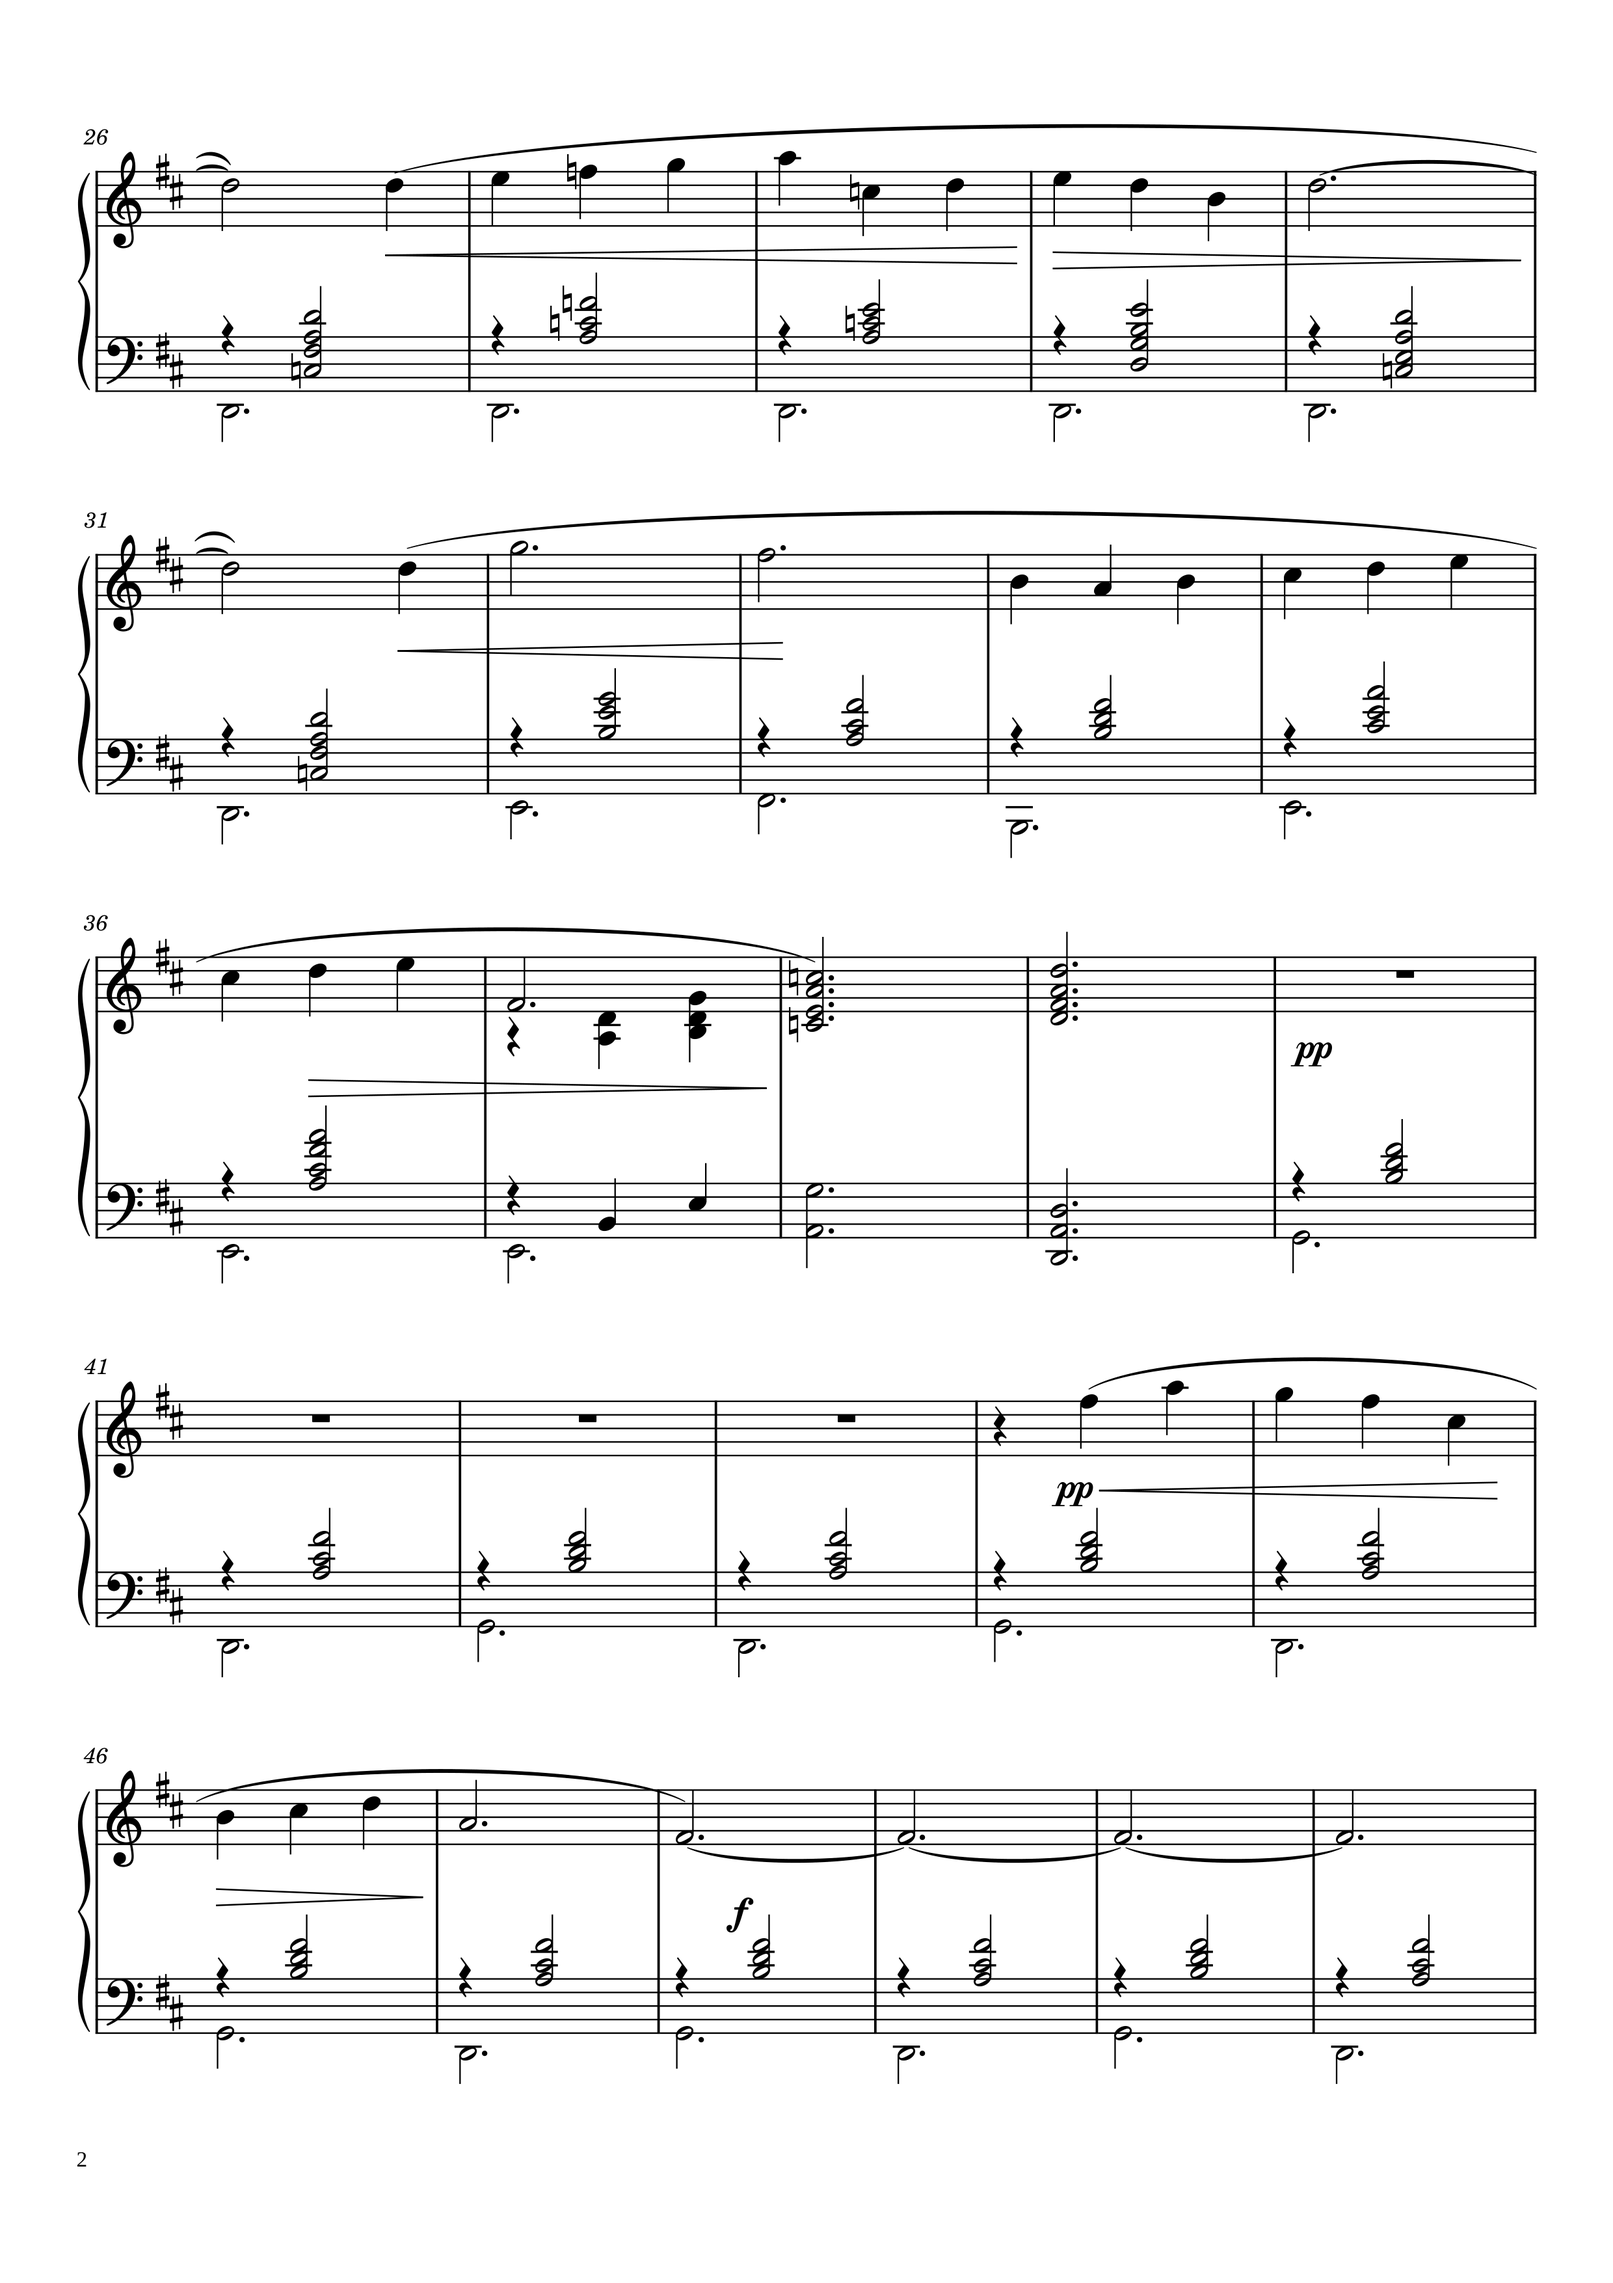
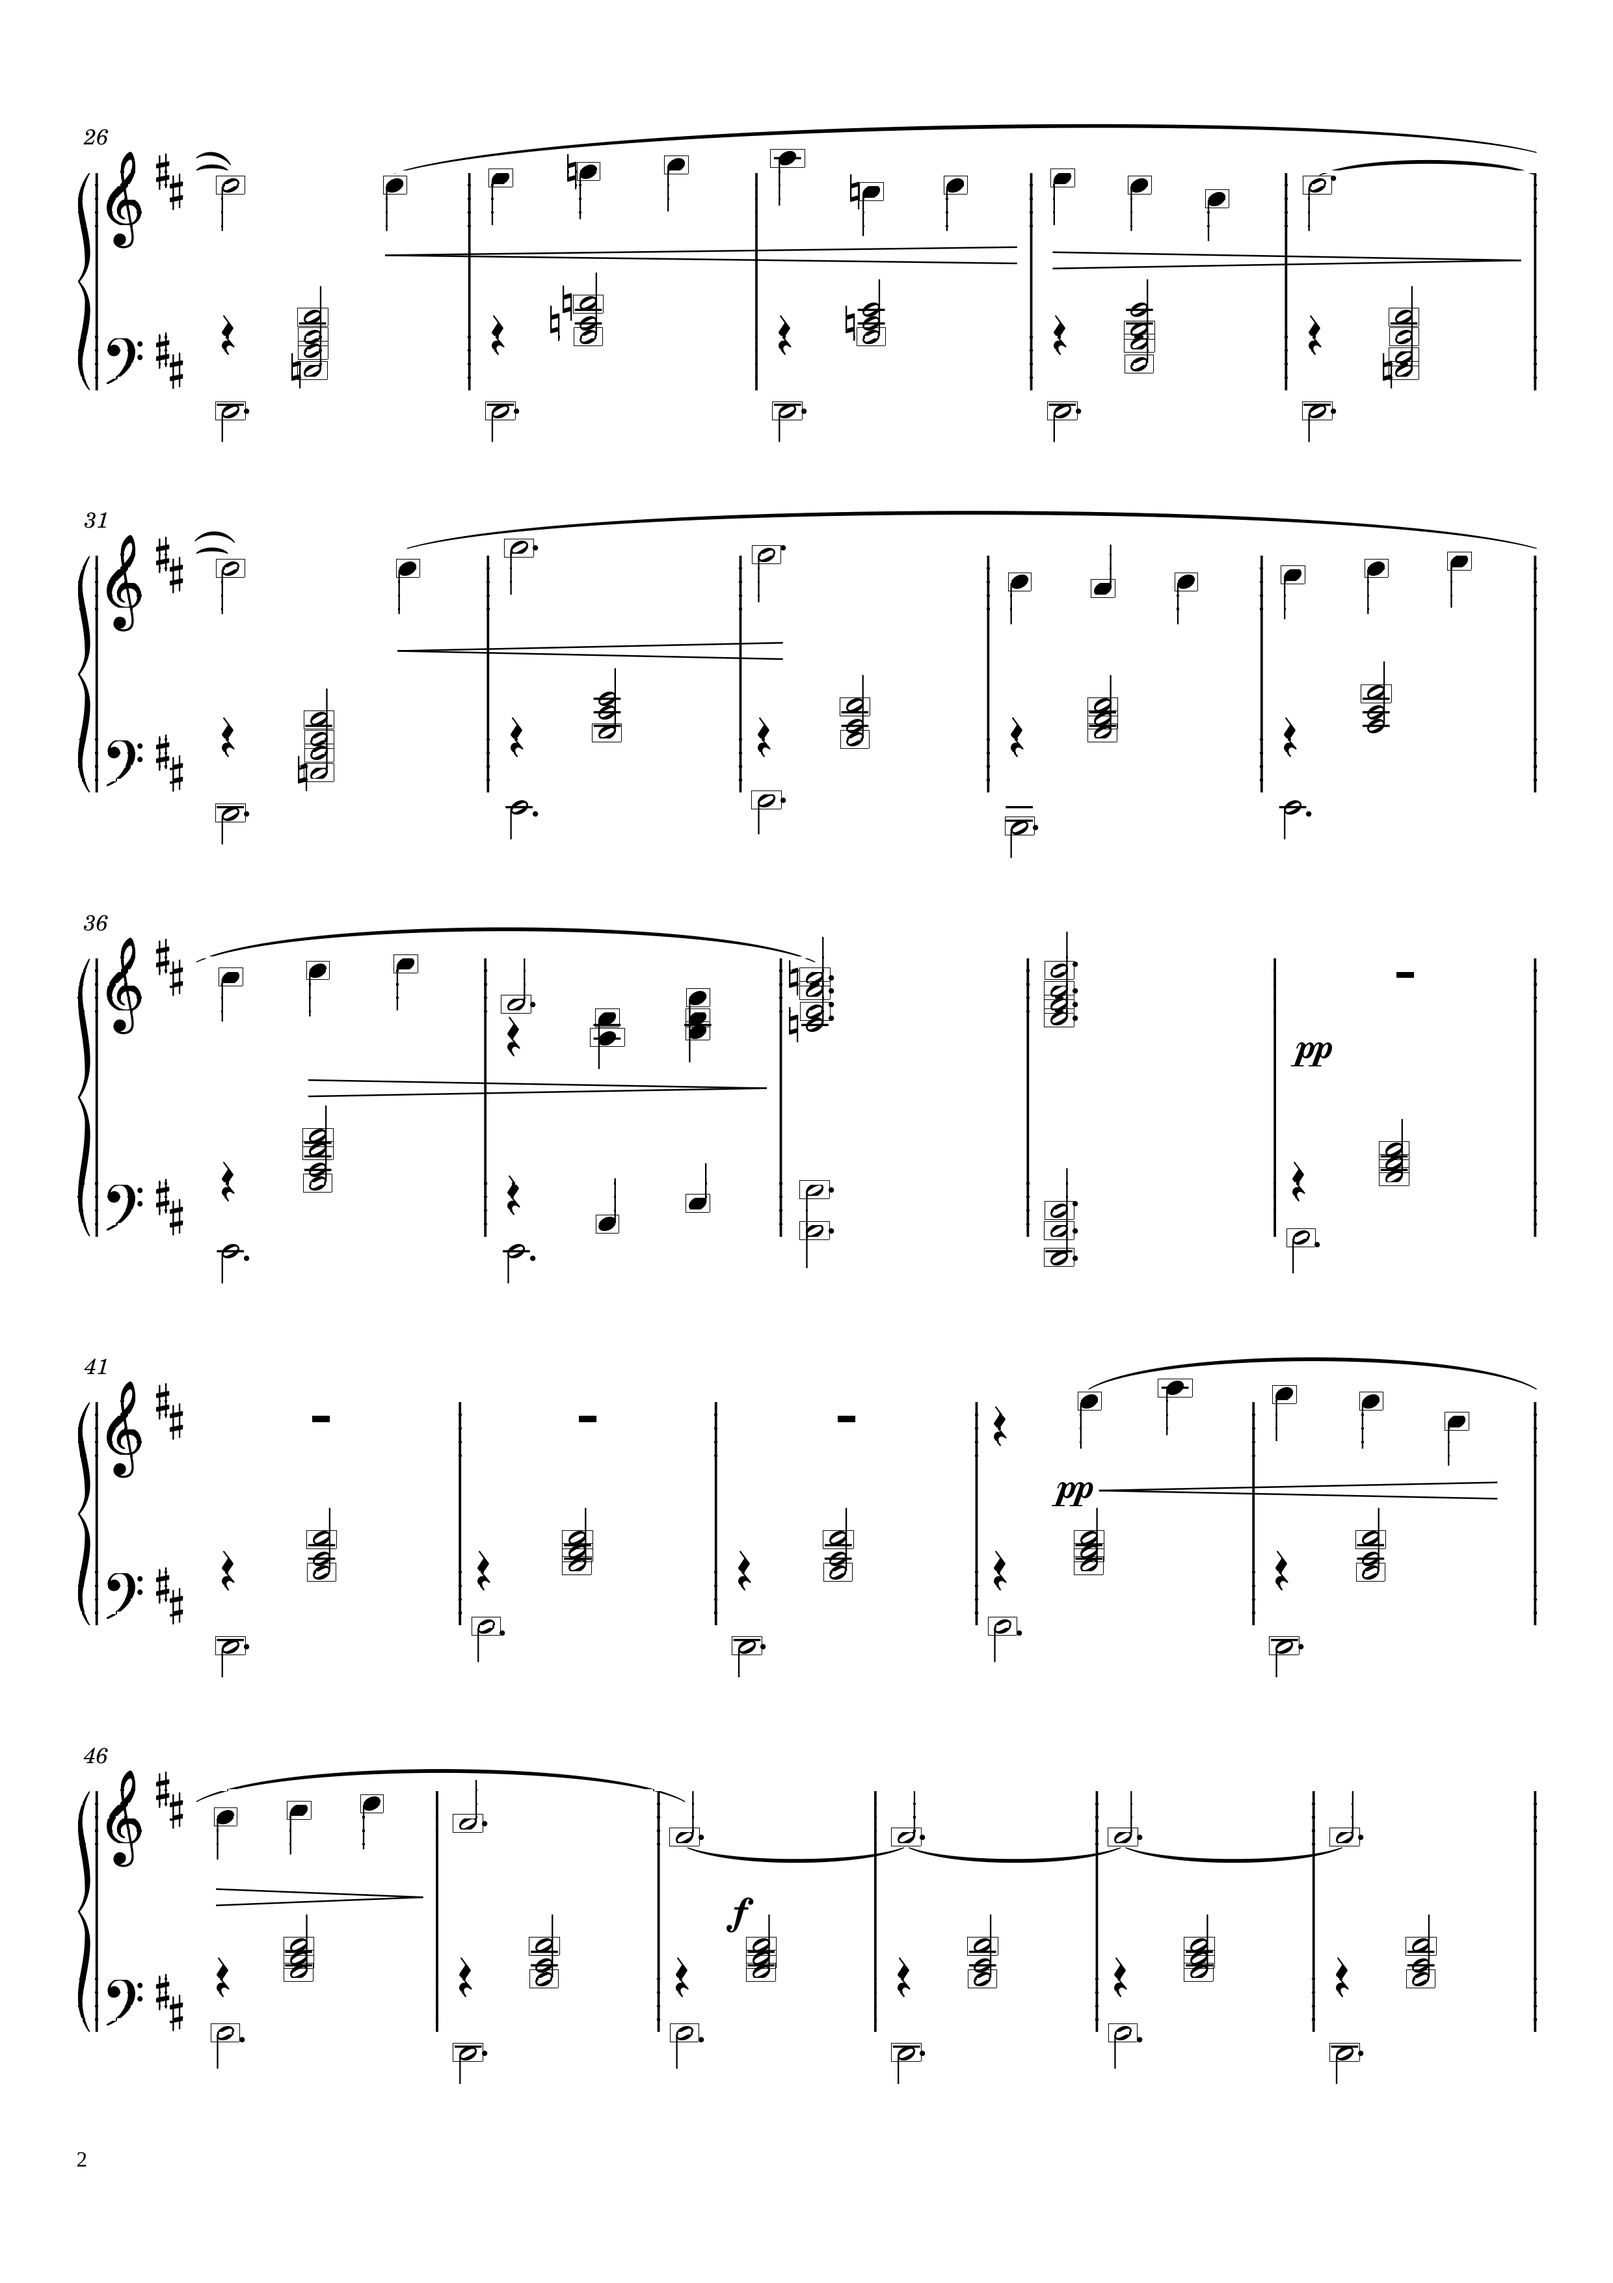
keepworking!dashedwhitesnocommited

diff --git a/main.py b/main.py
@@ -464,7 +464,6 @@ def process_line(input_y, img_array, width, difference_between_lines_for_line_dr
                                 if continued:
                                     break
                                 if temp_y_above <= input_y - (round(difference_between_lines_for_line_drawing) * 3 / 4) :
-                                    img_array[input_y: input_y + 50, x_index - round(black_count / 2)]= 50
                                     black_note = False
                                     break
                                 if max_above >= temp_y_above:
@@ -629,6 +628,7 @@ def process_line(input_y, img_array, width, difference_between_lines_for_line_dr
                 while True:
                     if temporary_x < 0: 
                         white_note = False
+                        break
                     temp_pixel = img_array[starting_above_white, temporary_x]
                     if temp_pixel != 255:
                         starting_of_space_above_inside = temporary_x + 1
@@ -650,6 +650,7 @@ def process_line(input_y, img_array, width, difference_between_lines_for_line_dr
                 while True:
                     if temporary_x >= width - 1: 
                         white_note = False
+                        break
                     temp_pixel = img_array[starting_above_white, temporary_x]
                     if temp_pixel != 255:
                         ending_of_space_above_inside = temporary_x - 1
@@ -684,6 +685,7 @@ def process_line(input_y, img_array, width, difference_between_lines_for_line_dr
                     while True:
                         if temporary_x < 0: 
                             white_note = False
+                            break
                         temp_pixel = img_array[starting_below_white, temporary_x]
                         if temp_pixel != 255:
                             starting_of_space_below_inside = temporary_x + 1
@@ -705,6 +707,7 @@ def process_line(input_y, img_array, width, difference_between_lines_for_line_dr
                     while True:
                         if temporary_x >= width - 1: 
                             white_note = False
+                            break
                         temp_pixel = img_array[starting_below_white, temporary_x]
                         if temp_pixel != 255:
                             ending_of_space_below_inside = temporary_x - 1
@@ -1140,11 +1143,11 @@ open_pdf_into_input(pdf_path, input_folder, new_input)
 for filename in os.listdir(input_folder):
     if filename.endswith(".png") or filename.endswith(".jpg"):
         image_path = os.path.join(input_folder, filename)
-        #extract_highlighted_lines_and_columns_from_image(image_path)
+        extract_highlighted_lines_and_columns_from_image(image_path)
 
-        try:
+        """ try:
             extract_highlighted_lines_and_columns_from_image(image_path)
         except IndexError as e:
             print(e) 
-        
+         """
 
